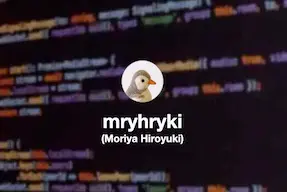
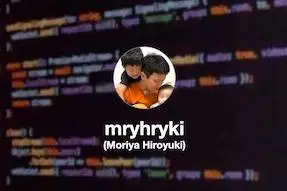
Update mryhryki's blog image

diff --git a/site/index.html b/site/index.html
@@ -584,10 +584,10 @@
         <a class="card output-card" href="https://mryhryki.com/blog/" target="_blank" rel="noopener noreferrer">
           <picture>
             <source type="image/webp" srcset="./assets/image/portfolio/output/mryhrykis_blog.webp">
-            <img class="output-image" src="./assets/image/portfolio/output/mryhrykis_blog.jpg" alt="mryhryki's blog"
+            <img class="output-image" src="./assets/image/portfolio/output/mryhrykis_blog.jpeg" alt="mryhryki's blog"
                  decoding="async" />
           </picture>
-          <h3>mryhryki's blog</h3>
+          <h3>blog</h3>
           <p>Web技術に関する記事・スライド・スクラップ（読んだ記事の記録）、Zennのバックアップ、個人的なメモなどがあります。</p>
         </a>
         <a class="card output-card" href="https://zenn.dev/mryhryki" target="_blank" rel="noopener noreferrer">
